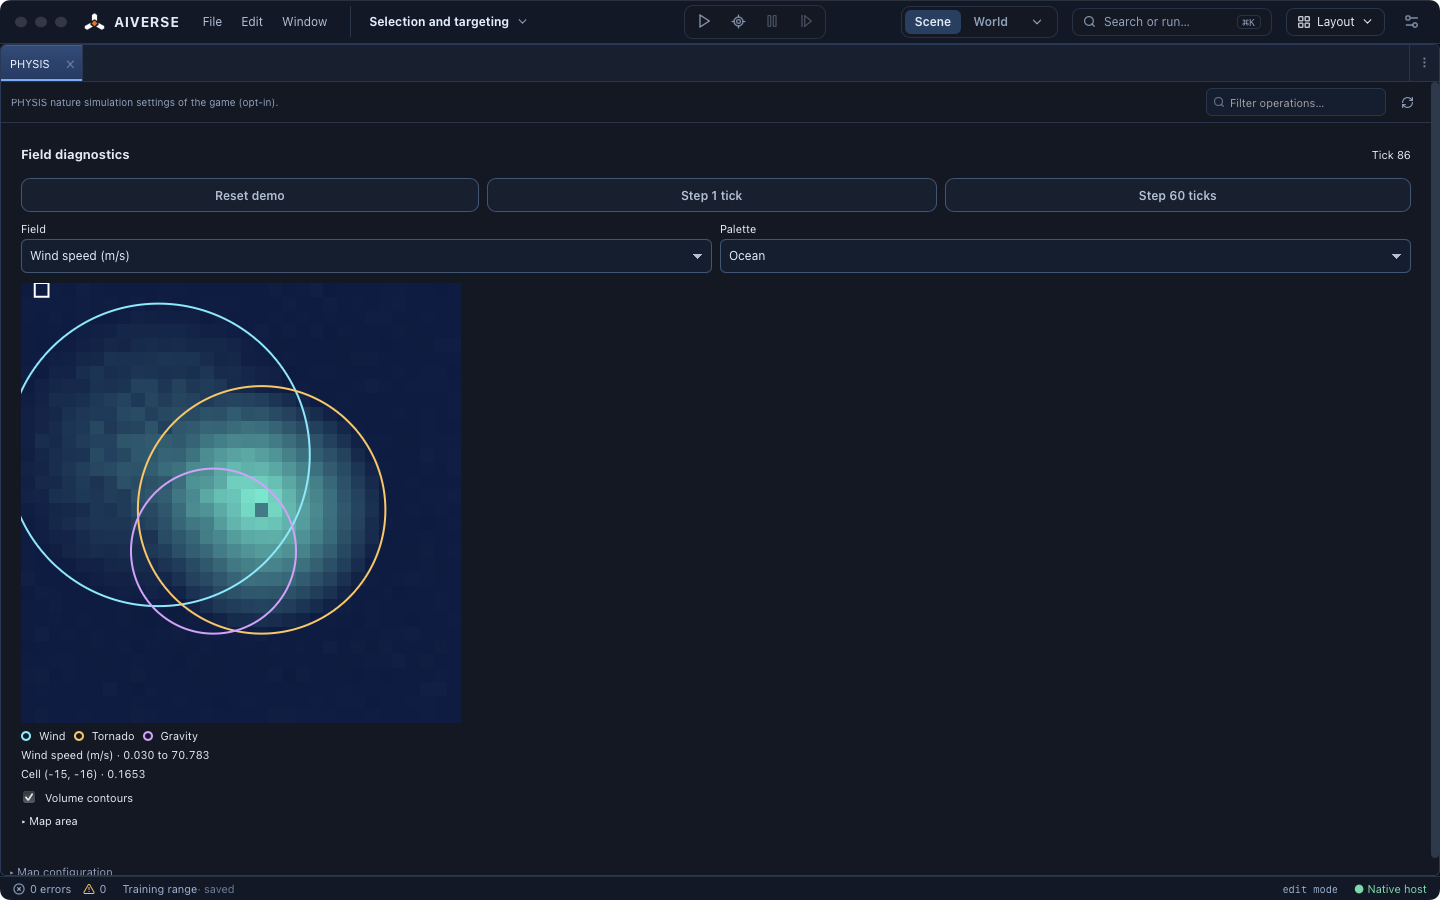
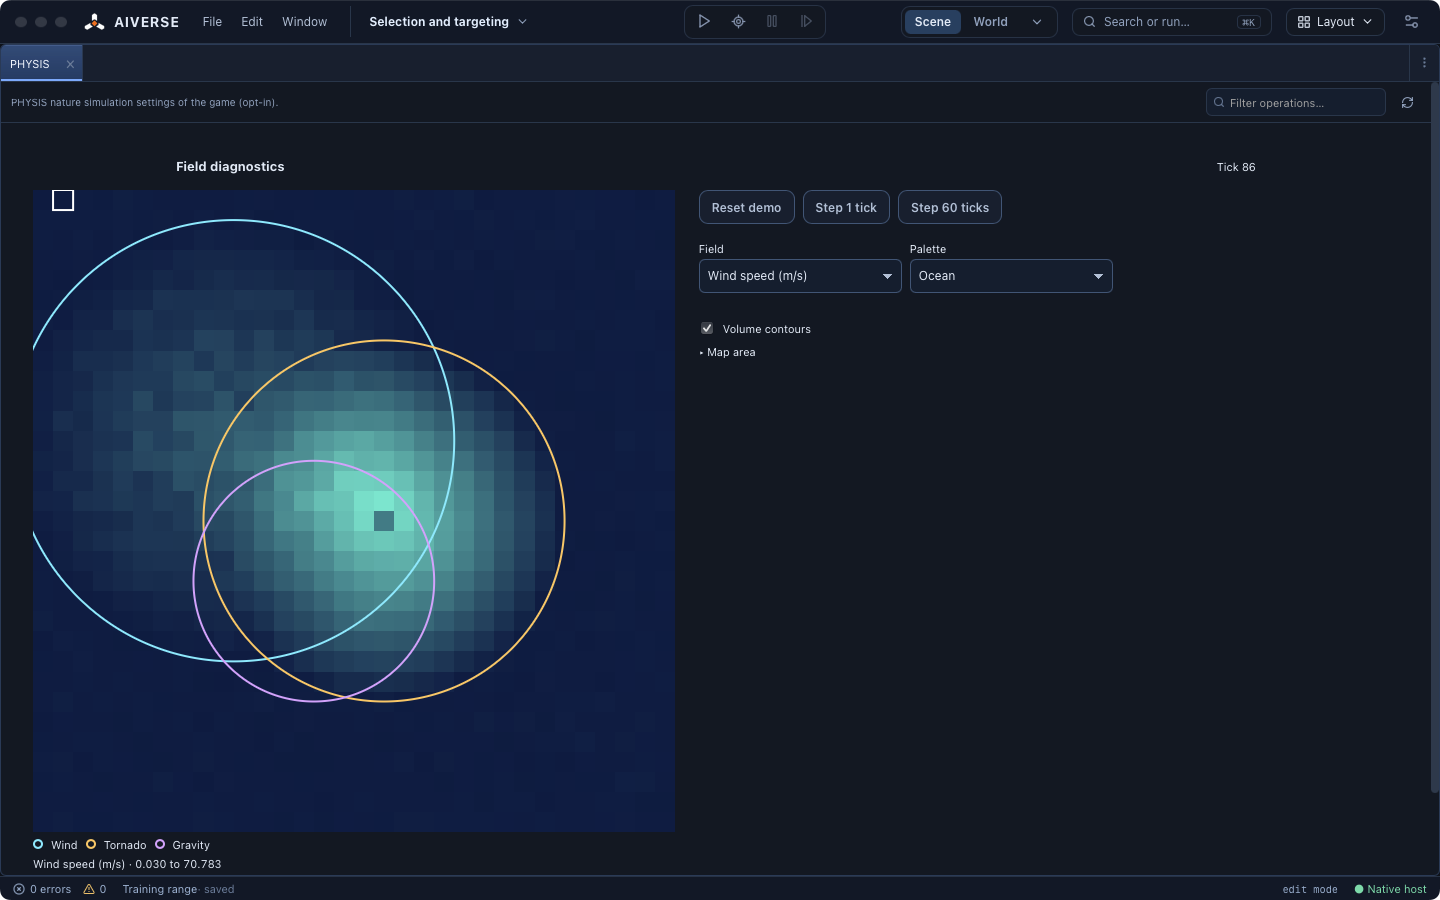
Record wide PHYSIS maps and desktop acceptance

diff --git a/docs/studio-html5-parity.md b/docs/studio-html5-parity.md
@@ -163,7 +163,7 @@ Derived from actual AIVERSE_EDITOR_WINDOW registrations in apps/editor/windows. 
 | `models` | `apps/editor/windows/ModelWindow.cpp` | Model operations plus MaterialTechniquePanel and StrataAnalysisPanel. Verify preview of the original model without overrides. |
 | `ModelingWindow` | `apps/editor/windows/ModelingWindow.cpp` | ModelGraphPanel opens by default inside ToolPanel. Native modeling operations are also available. Verify navigation from the active model to Attachments. |
 | `overlays` | `apps/editor/windows/OverlaysWindow.cpp` | Shared template and asset operations; independent placement footprint and selectable ground-overlay map plan with GameOverlays geometry, forced anchors, authored colors and Hierarchy selection. Linked overlay_preview opens the HTML panel, shares selection and placement with it, handles partial updates and clears the preview on off. macOS Studio also renders resolved HUD text, entity health bars and screen shapes in the plan. Verified right-edge HUD resizing, selection changes, circle and rounded rectangle pixels. The panel renders the planar game minimap with project background, terrain, player objects and authored marks. Verified ring/disc samples, cursor ping movement and toggling off in macOS WKWebView. On macOS, pixel checks verified a rotated loose texture, a later primitive above it, a camera-facing icon and frame, and a tinted HUD region from a packed atlas. An unavailable texture was reported alongside a valid icon. The Footprint / 3D model switch renders the selected structure through GameView::drawGhost into an independent GPU target. macOS verified the allowed/blocked tint change, selecting another structure, return to footprint, unchanged map bytes and the complete composited model. Windows execution remains open. |
-| `physis` | `apps/editor/windows/PhysisWindow.cpp` | PHYSIS get, validate and set operations. Verify the old demo stepping, field raster, palettes and contours in HTML. |
+| `physis` | `apps/editor/windows/PhysisWindow.cpp` | Mac verified the private diagnostic world, deterministic reset, +1/+60 ticks, 14 native fields, palette selection, wind/storm/gravity outlines, cell inspection and bounded views without Scene. Authored map operations remain available. Live ECS source, detailed cell diagnostics, nature preview and field-edit workflows remain open. |
 | `postfx` | `apps/editor/windows/PrismaWindow.cpp` | PostFxPanel edits game and map chains, effect parameters and quality tiers, estimates cost and applies presets. Verify per-camera diagnostics and local volume authoring. |
 | `studio_asset_audit` | `apps/editor/windows/ProjectAuditWindow.cpp` | Asset Audit panel (108) |
 | `project` | `apps/editor/windows/ProjectWindow.cpp` | Mac verified searchable map and rules groups, disk-only maps, create/edit, duplicate protection and Rules shortcut. Native map new/open/save/save-as and dirty guard remain covered by Stage 71. Project Hub and Windows have separate verification. |

diff --git a/docs/agent-handoffs/studio-project-catalog-initial.md b/docs/agent-handoffs/studio-project-catalog-initial.md
@@ -100,3 +100,5 @@ Base emitter bb1631828. apps/studio-web/src/panels/EffectSimulation.tsx and Effe
 PHYSIS private demo 2dc8196f0, apps/editor/PhysisDiagnosticDemo.h, core/PhysisOps.cpp, HTML PhysisDiagnosticsPanel. Built Mac app, TypeScript and Vite; 299 web tests passed. Packaged Mac verified all 14 fields, reset/1/60 ticks, wind map palette and contours, keyboard cell inspection, out-of-grid and byte-identical map with Scene absent. Evidence docs/evidence/studio-physis-demo-panel.json. Focused CTest passed physis_diagnostics and physis_editor_view; physis_authoring failed tests/physis_authoring_test.cpp:42 because the explicit PHYSIS operation count still expects three. Update catalog assertion and test private workspace isolation, then improve wide layout and rerun.
 
 PHYSIS wide layout and isolation 16aa334d7. tests/physis_authoring_test.cpp validates the fourth operation, rejects malformed stepping before mutation, confirms independent Workspaces, unchanged MapDoc and deterministic reset. Focused native CTest 3/3 passed in docs/evidence/studio-physis-diagnostic-checks.json. Web typecheck and production bundle passed. Next: repeat desktop interaction and capture the new wide layout.
+
+Wide PHYSIS layout 16aa334d7, captured on d1d631e44. Repeated Mac WKWebView demo interaction and asserted controls appear beside the raster in the wide layout. Fresh captures docs/evidence/studio-project-catalog/physis-{temperature,wind}.png, receipt docs/evidence/studio-physis-demo-layout.json. Next verify MCP tool catalog and full PHYSIS suite.

diff --git a/docs/handoff/studio-html5/studio-only-editor.md b/docs/handoff/studio-html5/studio-only-editor.md
@@ -725,3 +725,5 @@ PHYSIS diagnostics transfer: reuse the isolated native demo, tick stepping, all 
 PHYSIS private demo 2dc8196f0, apps/editor/PhysisDiagnosticDemo.h, core/PhysisOps.cpp, HTML PhysisDiagnosticsPanel. Built Mac app, TypeScript and Vite; 299 web tests passed. Packaged Mac verified all 14 fields, reset/1/60 ticks, wind map palette and contours, keyboard cell inspection, out-of-grid and byte-identical map with Scene absent. Evidence docs/evidence/studio-physis-demo-panel.json. Focused CTest passed physis_diagnostics and physis_editor_view; physis_authoring failed tests/physis_authoring_test.cpp:42 because the explicit PHYSIS operation count still expects three. Update catalog assertion and test private workspace isolation, then improve wide layout and rerun.
 
 PHYSIS wide layout and isolation 16aa334d7. tests/physis_authoring_test.cpp validates the fourth operation, rejects malformed stepping before mutation, confirms independent Workspaces, unchanged MapDoc and deterministic reset. Focused native CTest 3/3 passed in docs/evidence/studio-physis-diagnostic-checks.json. Web typecheck and production bundle passed. Next: repeat desktop interaction and capture the new wide layout.
+
+Wide PHYSIS layout 16aa334d7, captured on d1d631e44. Repeated Mac WKWebView demo interaction and asserted controls appear beside the raster in the wide layout. Fresh captures docs/evidence/studio-project-catalog/physis-{temperature,wind}.png, receipt docs/evidence/studio-physis-demo-layout.json. Next verify MCP tool catalog and full PHYSIS suite.
